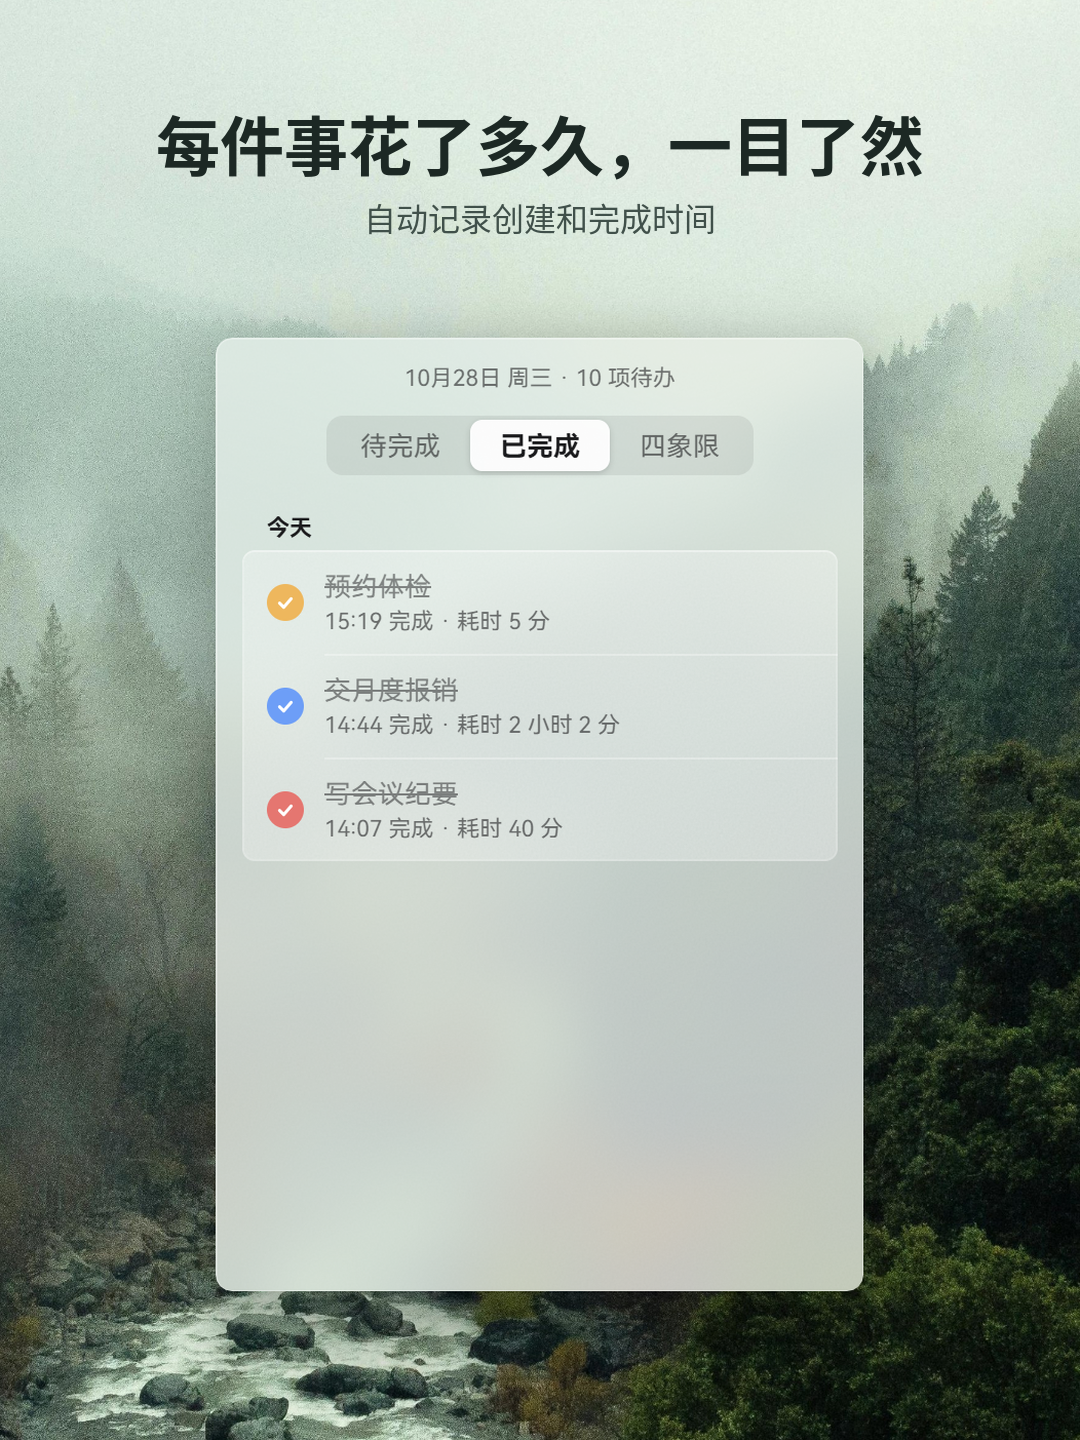
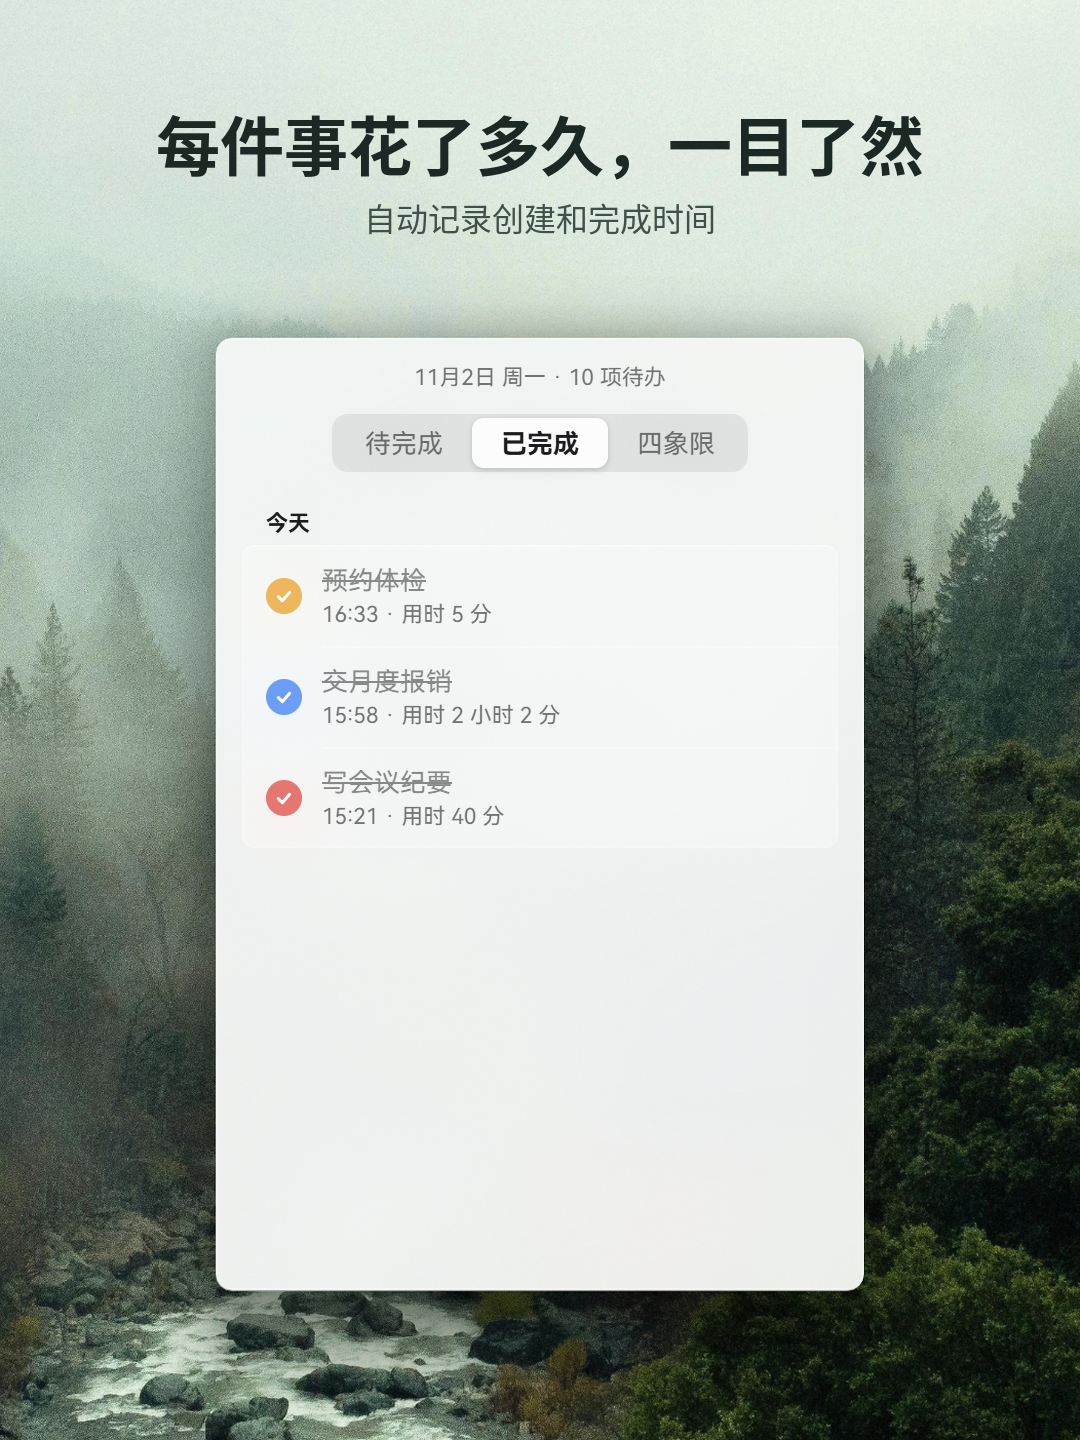
README：v0.3.0-beta，补充贴边隐藏和设置页；已完成截图换成新格式

Changed region(s): [[0.1833, 0.25, 0.825, 0.9375]]

diff --git a/README.md b/README.md
@@ -11,7 +11,9 @@
 ## 功能
 
 - **毛玻璃小组件**：半透明磨砂窗口，跟随系统浅色 / 深色模式；平时停在桌面层，不挡其他窗口
-- **随叫随到**：快捷键 `Alt+Shift+T` 或点托盘图标呼出 / 隐藏，呼出后直接输入新任务
+- **随叫随到**：快捷键（默认 `Alt+Shift+T`，可以在设置里换）或点托盘图标呼出 / 隐藏，呼出后直接输入新任务
+- **贴边吸附和隐藏**：拖到屏幕边缘附近自动贴紧；收起方式选"贴边隐藏"后，不用时缩进屏幕边缘，只留一条细边，鼠标顶到边缘停一下就滑出来
+- **设置页**：背景不透明度（40%～100%）、呼出快捷键、收起方式、开机自启、自动检查更新
 - **三个视图**：待完成 / 已完成 / 四象限（立即做、计划做、快速处理、以后再说），`Ctrl+1 / 2 / 3` 切换
 - **四象限拖动**：拖动任务就能换象限；新建时末尾写 `!1` ~ `!4` 直接指定象限
 - **时间识别与提醒**：标题里写"明天下午3点""周三晚""30分钟后"会自动识别成提醒时间；到点弹出系统通知，可以直接点"完成 / 30 分钟后 / 明天"
@@ -20,12 +22,12 @@
 - **早上开工简报**：每天第一次解锁电脑时，帮你看一眼今天的安排
 - **勿扰**：系统开着"请勿打扰"时不弹通知，结束后补上；也可以暂停提醒 1 小时
 - **撤销**：完成、删除、移动之后 3 秒内可以撤销
-- **检查更新**：第一次打开时问你要不要自动检查；有新版本时在列表上方提示，点一下就能去下载页（不会自动下载安装）
+- **检查更新**：第一次打开时问你要不要自动检查；有新版本时顶部显示一行提示，点"查看"看更新说明，再决定要不要去下载页（不会自动下载安装）
 - **数据在本地**：任务数据只存本地（`%APPDATA%\com.misttodo.app\`）、从不上传；开启自动检查更新时会访问 GitHub（GitHub 会看到访问来源的 IP）
 
 ## 下载和使用
 
-1. 打开本仓库的 [Releases 页面](../../releases)，下载 `mist-todo-v0.2.2-beta.exe`
+1. 打开本仓库的 [Releases 页面](../../releases)，下载 `mist-todo-v0.3.0-beta.exe`
 2. 双击运行即可，不需要安装
 3. 系统要求：Windows 10 / 11（Windows 11 一般自带所需组件；如果 Windows 10 上双击没反应，请安装微软的 [WebView2 运行时](https://developer.microsoft.com/microsoft-edge/webview2/)）
 
